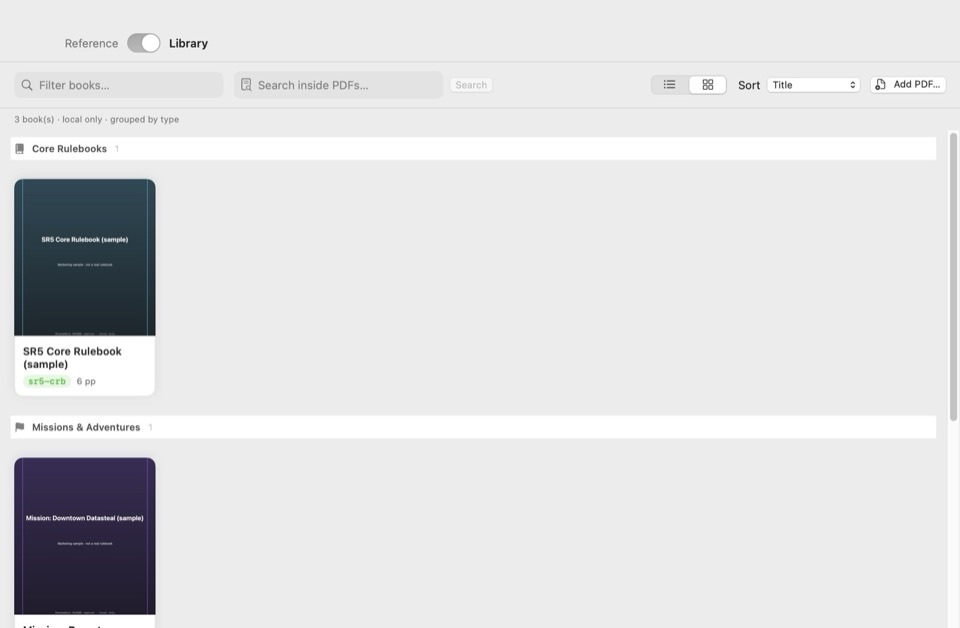
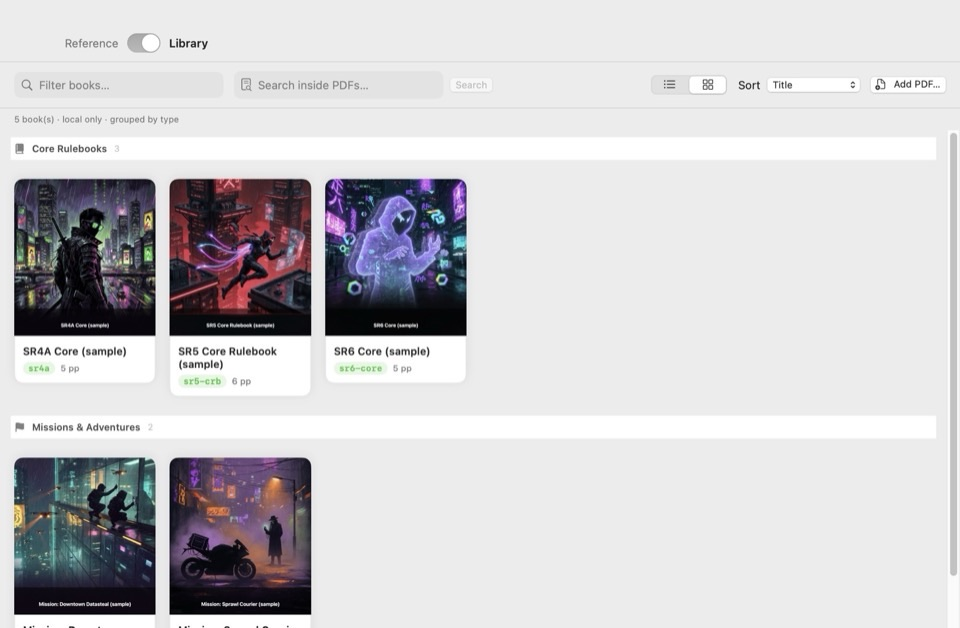
Add original PDF shelf cover art for marketing captures.
Imagine-generated sample covers for SR4/SR5/SR6 cores and two mission
modules; seed the capture shelf from those assets and refresh README
PDF Library stills.

Changed region(s): [[0.0, 0.2723, 0.5, 0.6354], [0.0, 0.7261, 0.3438, 1.0], [0.9688, 0.6656, 1.0, 0.9076]]

diff --git a/ShadowDeck/UI/Rules/RulesReferenceSession.swift b/ShadowDeck/UI/Rules/RulesReferenceSession.swift
@@ -58,27 +58,78 @@ final class RulesReferenceSession: ObservableObject {
 
 // MARK: - Marketing sample PDFs
 
-/// Synthetic multi-page PDFs for README captures (labels say “sample”; no real rule text).
+/// Synthetic multi-page PDFs for README captures (covers from bundled original art;
+/// labels say “sample”; no real rule text or publisher assets).
 @MainActor
 enum MarketingPDFLibrarySeeder {
+    private struct Spec {
+        var title: String
+        var bookKey: String?
+        var tags: [String]
+        var section: PDFShelfSection
+        var coverResource: String
+        var pages: Int
+    }
+
+    /// Three core samples (one per edition) + two mission samples for the shelf marquee.
+    private static let specs: [Spec] = [
+        Spec(
+            title: "SR4A Core (sample)",
+            bookKey: PageRef.BookKey.sr4a,
+            tags: ["SR4"],
+            section: .coreRulebook,
+            coverResource: "cover_sr4_core",
+            pages: 5
+        ),
+        Spec(
+            title: "SR5 Core Rulebook (sample)",
+            bookKey: PageRef.BookKey.sr5CRB,
+            tags: ["SR5"],
+            section: .coreRulebook,
+            coverResource: "cover_sr5_core",
+            pages: 6
+        ),
+        Spec(
+            title: "SR6 Core (sample)",
+            bookKey: PageRef.BookKey.sr6Core,
+            tags: ["SR6"],
+            section: .coreRulebook,
+            coverResource: "cover_sr6_core",
+            pages: 5
+        ),
+        Spec(
+            title: "Mission: Downtown Datasteal (sample)",
+            bookKey: "srm-datasteal",
+            tags: ["SR5"],
+            section: .mission,
+            coverResource: "cover_mission_datasteal",
+            pages: 4
+        ),
+        Spec(
+            title: "Mission: Sprawl Courier (sample)",
+            bookKey: "srm-sprawl",
+            tags: ["SR5"],
+            section: .mission,
+            coverResource: "cover_mission_sprawl",
+            pages: 4
+        )
+    ]
+
     static func makeStore() throws -> PDFLibraryStore {
         let root = FileManager.default.temporaryDirectory
             .appendingPathComponent("ShadowDeck-Marketing-PDF-\(UUID().uuidString)", isDirectory: true)
         try FileManager.default.createDirectory(at: root, withIntermediateDirectories: true)
         var store = PDFLibraryStore(items: [], rootDirectory: root)
 
-        let specs: [(title: String, bookKey: String?, tags: [String], section: PDFShelfSection, pages: Int, hue: CGFloat)] = [
-            ("SR5 Core Rulebook (sample)", PageRef.BookKey.sr5CRB, ["SR5"], .coreRulebook, 6, 0.55),
-            ("Run & Gun (sample)", "run-gun", ["SR5"], .sourcebook, 4, 0.08),
-            ("Mission: Downtown Datasteal (sample)", "srm-sample", ["SR5"], .mission, 3, 0.72)
-        ]
-
         for spec in specs {
-            let url = root.appendingPathComponent("\(spec.bookKey ?? UUID().uuidString).pdf")
+            let fileBase = (spec.bookKey ?? UUID().uuidString)
+                .replacingOccurrences(of: "/", with: "-")
+            let url = root.appendingPathComponent("\(fileBase).pdf")
+            let cover = loadCoverImage(named: spec.coverResource)
             try writeSamplePDF(
                 title: spec.title,
+                coverArt: cover,
                 pageCount: spec.pages,
-                hue: spec.hue,
                 to: url
             )
             _ = try store.addPDF(
@@ -92,7 +143,31 @@ enum MarketingPDFLibrarySeeder {
         return store
     }
 
-    private static func writeSamplePDF(title: String, pageCount: Int, hue: CGFloat, to url: URL) throws {
+    private static func loadCoverImage(named name: String) -> NSImage? {
+        let bundle = Bundle.main
+        let candidates: [URL?] = [
+            bundle.url(forResource: name, withExtension: "jpg", subdirectory: "Brand/MarketingPDFCovers"),
+            bundle.url(forResource: name, withExtension: "jpg", subdirectory: "MarketingPDFCovers"),
+            bundle.url(forResource: name, withExtension: "jpg", subdirectory: "Brand"),
+            bundle.url(forResource: name, withExtension: "jpg"),
+            URL(fileURLWithPath: #filePath)
+                .deletingLastPathComponent()
+                .deletingLastPathComponent()
+                .deletingLastPathComponent()
+                .appendingPathComponent("Resources/Brand/MarketingPDFCovers/\(name).jpg")
+        ]
+        for url in candidates.compactMap({ $0 }) where FileManager.default.fileExists(atPath: url.path) {
+            if let image = NSImage(contentsOf: url) { return image }
+        }
+        return nil
+    }
+
+    private static func writeSamplePDF(
+        title: String,
+        coverArt: NSImage?,
+        pageCount: Int,
+        to url: URL
+    ) throws {
         let doc = PDFDocument()
         let pageSize = NSSize(width: 612, height: 792) // US Letter points
         for index in 0..<pageCount {
@@ -100,7 +175,7 @@ enum MarketingPDFLibrarySeeder {
                 title: title,
                 page: index + 1,
                 total: pageCount,
-                hue: hue,
+                coverArt: coverArt,
                 size: pageSize
             )
             guard let pdfPage = PDFPage(image: image) else {
@@ -117,56 +192,85 @@ enum MarketingPDFLibrarySeeder {
         title: String,
         page: Int,
         total: Int,
-        hue: CGFloat,
+        coverArt: NSImage?,
         size: NSSize
     ) -> NSImage {
         let image = NSImage(size: size)
         image.lockFocus()
         let bounds = NSRect(origin: .zero, size: size)
 
-        let top = NSColor(calibratedHue: hue, saturation: 0.55, brightness: 0.28, alpha: 1)
-        let bottom = NSColor(calibratedHue: hue, saturation: 0.35, brightness: 0.12, alpha: 1)
-        let gradient = NSGradient(starting: top, ending: bottom)
-        gradient?.draw(in: bounds, angle: -90)
-
-        let accent = NSColor(calibratedHue: hue, saturation: 0.7, brightness: 0.85, alpha: 1)
-        accent.withAlphaComponent(0.9).setStroke()
-        let inset = bounds.insetBy(dx: 36, dy: 36)
-        let border = NSBezierPath(roundedRect: inset, xRadius: 8, yRadius: 8)
-        border.lineWidth = 2
-        border.stroke()
+        if let coverArt {
+            // Cover-fill the page (crop sides if needed) so shelf thumbs match the art.
+            let artSize = coverArt.size
+            let scale = max(size.width / max(artSize.width, 1), size.height / max(artSize.height, 1))
+            let drawSize = NSSize(width: artSize.width * scale, height: artSize.height * scale)
+            let origin = NSPoint(
+                x: (size.width - drawSize.width) / 2,
+                y: (size.height - drawSize.height) / 2
+            )
+            let fraction: CGFloat = page == 1 ? 1 : 0.42
+            coverArt.draw(
+                in: NSRect(origin: origin, size: drawSize),
+                from: NSRect(origin: .zero, size: artSize),
+                operation: .copy,
+                fraction: fraction
+            )
+            if page > 1 {
+                NSColor.black.withAlphaComponent(0.55).setFill()
+                bounds.fill(using: .sourceOver)
+            }
+        } else {
+            NSColor(calibratedWhite: 0.08, alpha: 1).setFill()
+            bounds.fill()
+        }
 
         let paragraph = NSMutableParagraphStyle()
         paragraph.alignment = .center
 
-        let titleAttrs: [NSAttributedString.Key: Any] = [
-            .font: NSFont.systemFont(ofSize: page == 1 ? 28 : 20, weight: .bold),
-            .foregroundColor: NSColor.white,
-            .paragraphStyle: paragraph
-        ]
-        let subtitleAttrs: [NSAttributedString.Key: Any] = [
-            .font: NSFont.systemFont(ofSize: 13, weight: .medium),
-            .foregroundColor: NSColor.white.withAlphaComponent(0.75),
-            .paragraphStyle: paragraph
-        ]
-        let footerAttrs: [NSAttributedString.Key: Any] = [
-            .font: NSFont.monospacedSystemFont(ofSize: 11, weight: .regular),
-            .foregroundColor: NSColor.white.withAlphaComponent(0.55),
-            .paragraphStyle: paragraph
-        ]
+        if page == 1 {
+            // Title band over the art’s reserved lower third (cover art leaves dark space).
+            let band = NSRect(x: 0, y: 0, width: size.width, height: size.height * 0.22)
+            NSColor.black.withAlphaComponent(0.55).setFill()
+            band.fill(using: .sourceOver)
 
-        let titleRect = NSRect(x: 48, y: size.height * 0.52, width: size.width - 96, height: 80)
-        (title as NSString).draw(in: titleRect, withAttributes: titleAttrs)
-
-        let subtitle = page == 1
-            ? "Marketing sample · not a real rulebook"
-            : "Sample page \(page) of \(total)"
-        let subRect = NSRect(x: 48, y: size.height * 0.42, width: size.width - 96, height: 40)
-        (subtitle as NSString).draw(in: subRect, withAttributes: subtitleAttrs)
-
-        let footer = "ShadowDeck README capture · local only"
-        let footRect = NSRect(x: 48, y: 48, width: size.width - 96, height: 24)
-        (footer as NSString).draw(in: footRect, withAttributes: footerAttrs)
+            let titleAttrs: [NSAttributedString.Key: Any] = [
+                .font: NSFont.systemFont(ofSize: 22, weight: .bold),
+                .foregroundColor: NSColor.white,
+                .paragraphStyle: paragraph
+            ]
+            let subAttrs: [NSAttributedString.Key: Any] = [
+                .font: NSFont.systemFont(ofSize: 11, weight: .medium),
+                .foregroundColor: NSColor.white.withAlphaComponent(0.72),
+                .paragraphStyle: paragraph
+            ]
+            (title as NSString).draw(
+                in: NSRect(x: 28, y: size.height * 0.10, width: size.width - 56, height: 36),
+                withAttributes: titleAttrs
+            )
+            ("Marketing sample · not a real rulebook" as NSString).draw(
+                in: NSRect(x: 28, y: size.height * 0.05, width: size.width - 56, height: 20),
+                withAttributes: subAttrs
+            )
+        } else {
+            let titleAttrs: [NSAttributedString.Key: Any] = [
+                .font: NSFont.systemFont(ofSize: 18, weight: .semibold),
+                .foregroundColor: NSColor.white.withAlphaComponent(0.9),
+                .paragraphStyle: paragraph
+            ]
+            let subAttrs: [NSAttributedString.Key: Any] = [
+                .font: NSFont.monospacedSystemFont(ofSize: 12, weight: .regular),
+                .foregroundColor: NSColor.white.withAlphaComponent(0.65),
+                .paragraphStyle: paragraph
+            ]
+            (title as NSString).draw(
+                in: NSRect(x: 40, y: size.height * 0.52, width: size.width - 80, height: 40),
+                withAttributes: titleAttrs
+            )
+            ("Sample page \(page) of \(total) · ShadowDeck capture only" as NSString).draw(
+                in: NSRect(x: 40, y: size.height * 0.45, width: size.width - 80, height: 24),
+                withAttributes: subAttrs
+            )
+        }
 
         image.unlockFocus()
         return image

diff --git a/ShadowDeck/App/MarketingScreenshotExporter.swift b/ShadowDeck/App/MarketingScreenshotExporter.swift
@@ -116,7 +116,8 @@ enum MarketingScreenshotExporter {
         await captureStill(named: "06-rules-reference", to: dir, window: .rulesReference)
 
         post(.pdfLibrary)
-        try? await Task.sleep(nanoseconds: 1_400_000_000)
+        // Sample shelf builds 5 illustrated PDFs + gallery layout.
+        try? await Task.sleep(nanoseconds: 2_200_000_000)
         await captureStill(named: "09-pdf-library", to: dir, window: .rulesReference)
 
         // —— GIFs (main deck) ——

diff --git a/ShadowDeck/UI/Rules/RulesReferenceController.swift b/ShadowDeck/UI/Rules/RulesReferenceController.swift
@@ -424,6 +424,7 @@ final class RulesReferenceController: ObservableObject {
         mode = .library
         selectedLibraryItemID = nil
         libraryLayout = .gallery
+        librarySort = .title
         libraryFilter = ""
         libraryStatusMessage = nil
         libraryTextQuery = ""

diff --git a/Docs/Screenshots/README.md b/Docs/Screenshots/README.md
@@ -29,4 +29,4 @@ Full UI stills ~1800px long edge; thumbs ~960px. GIFs are silent and looping; st
 
 **Click-to-play:** GitHub has no pause/play control for GIFs and autoplays any embedded GIF. The README uses a `<details>` / `<summary>` poster; expanding reveals the looping GIF on the same page (better than linking to the raw file browser).
 
-**Privacy:** Capture always uses an **in-memory** character library seeded with sample characters only (`LibraryEnvironment.marketingCapture()`). The mission GIF creates its own run. Rules / PDF shots use **synthetic sample PDFs** in a temp shelf (labeled “sample”) — never your on-disk personal PDF library or character data.
+**Privacy:** Capture always uses an **in-memory** character library seeded with sample characters only (`LibraryEnvironment.marketingCapture()`). The mission GIF creates its own run. Rules / PDF shots use **synthetic sample PDFs** in a temp shelf (labeled “sample”) with bundled original cover art under `Resources/Brand/MarketingPDFCovers/` — never your on-disk personal PDF library or character data, and never publisher rulebook assets.
